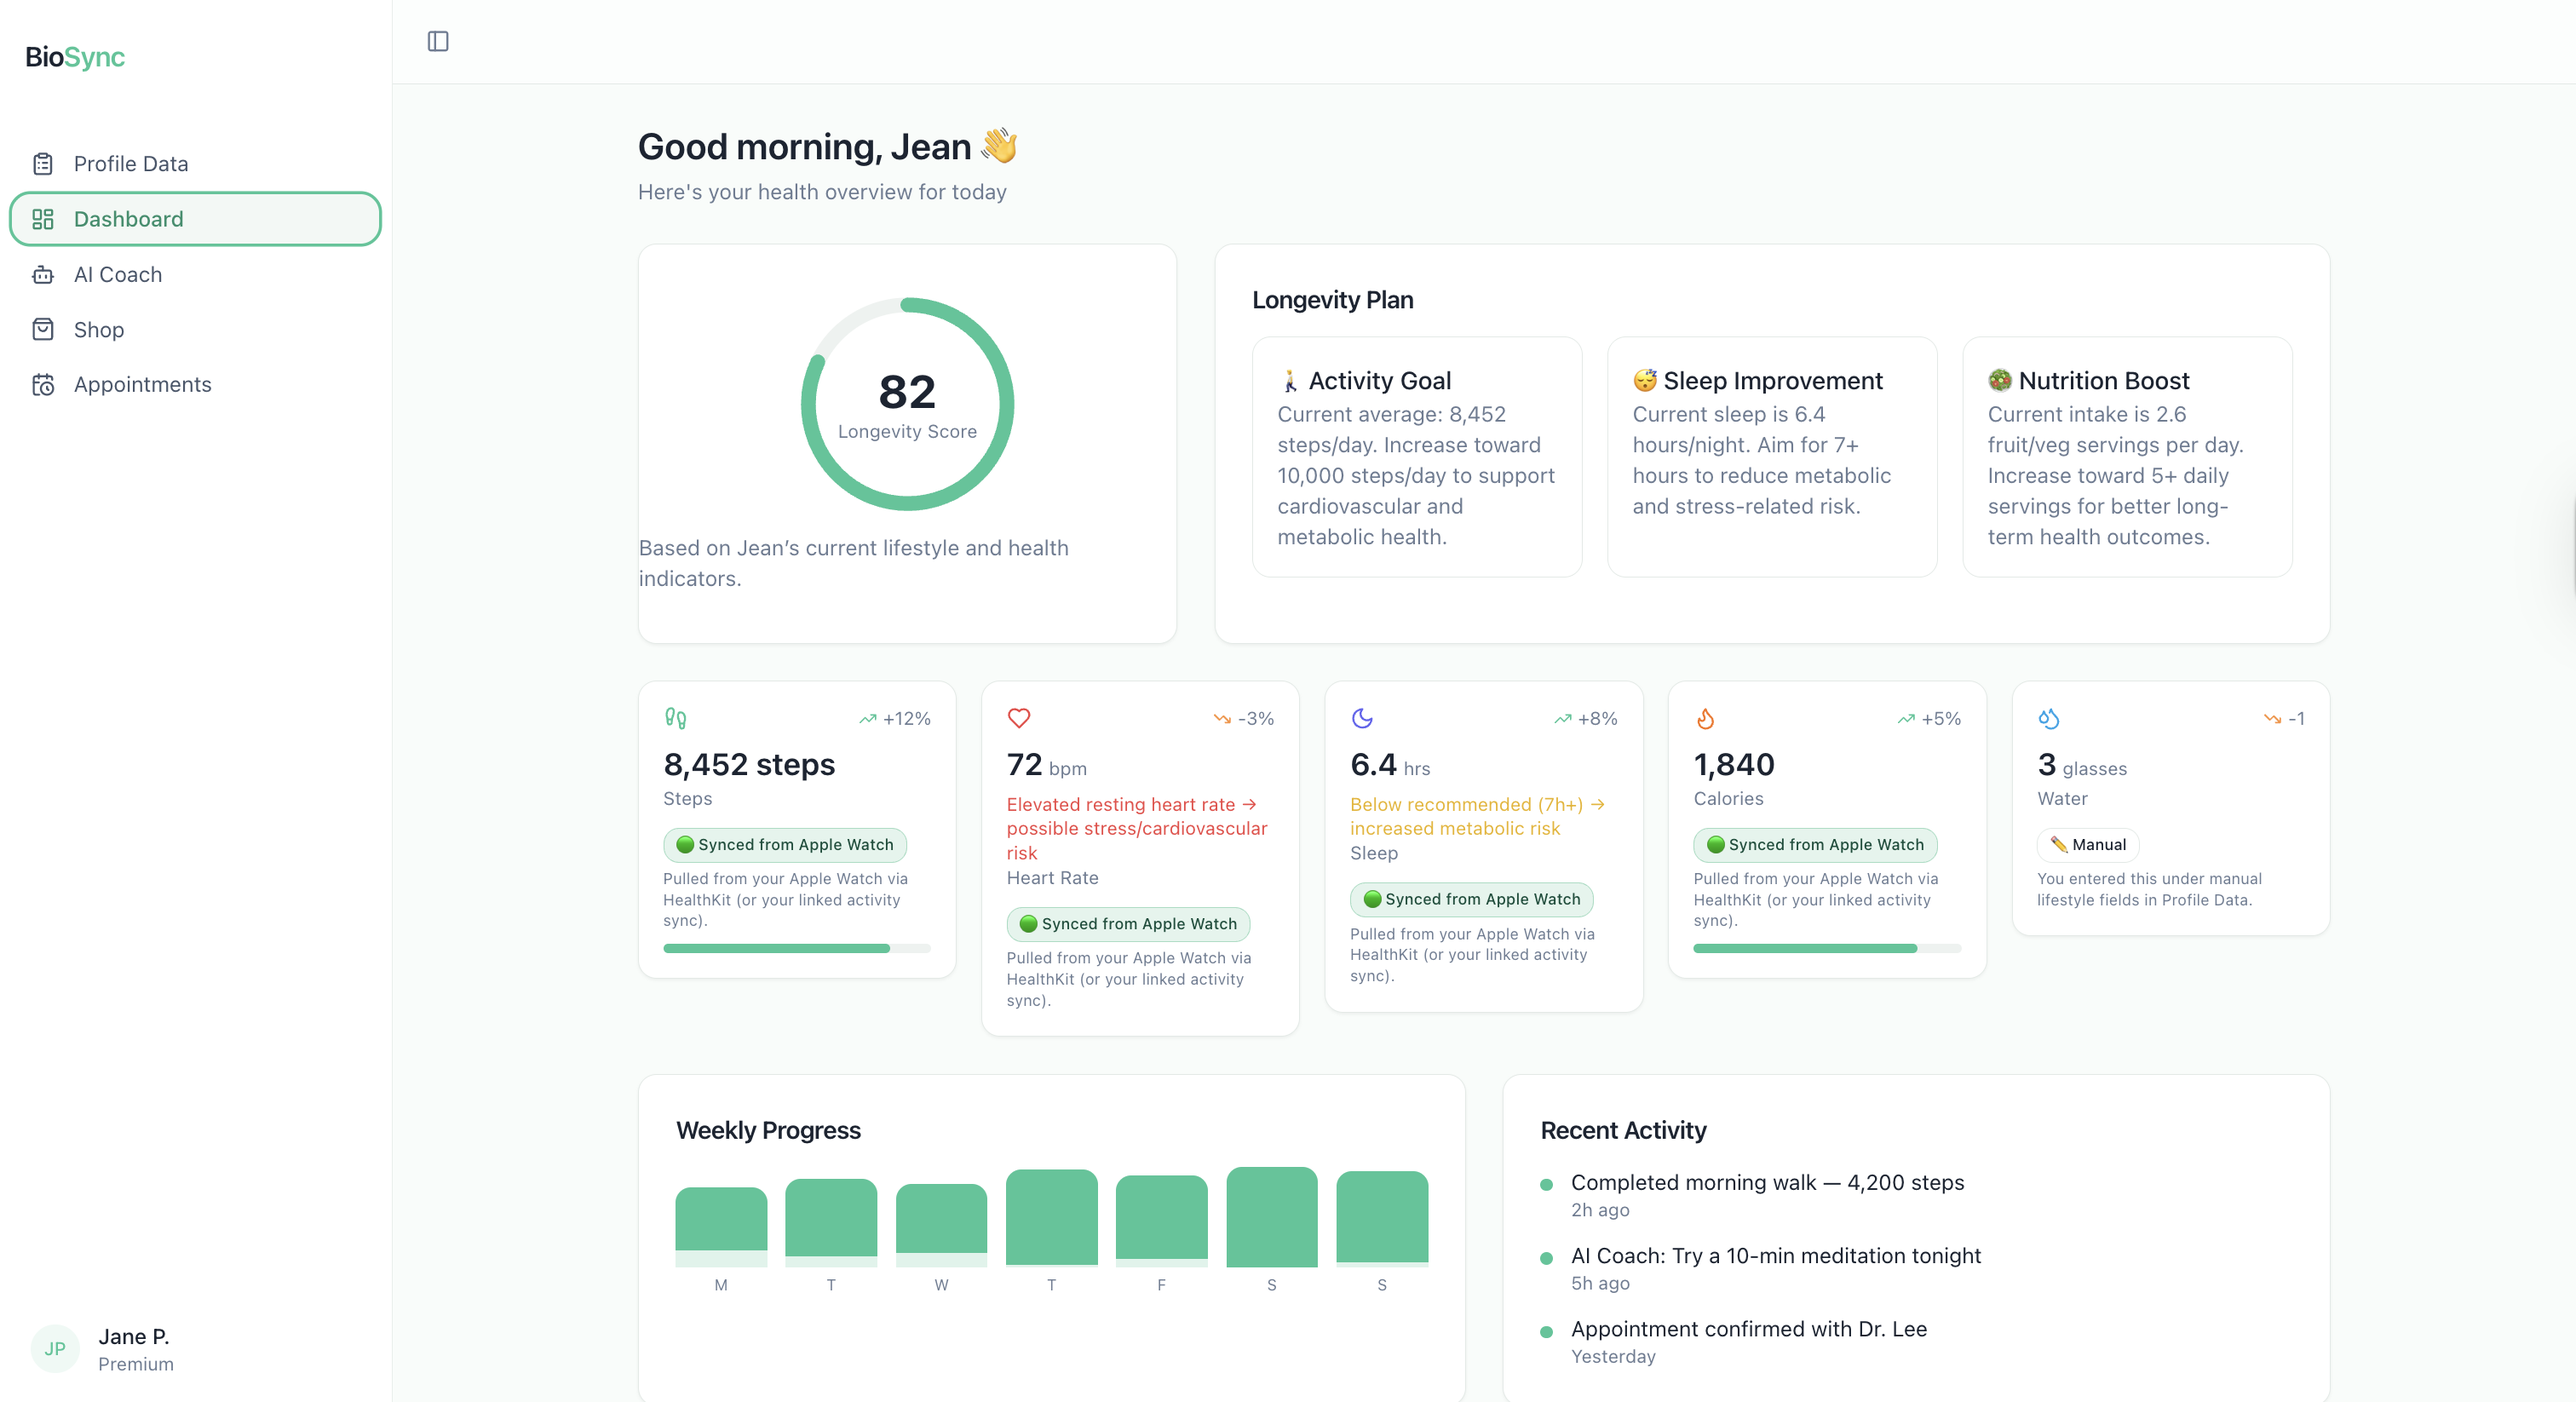
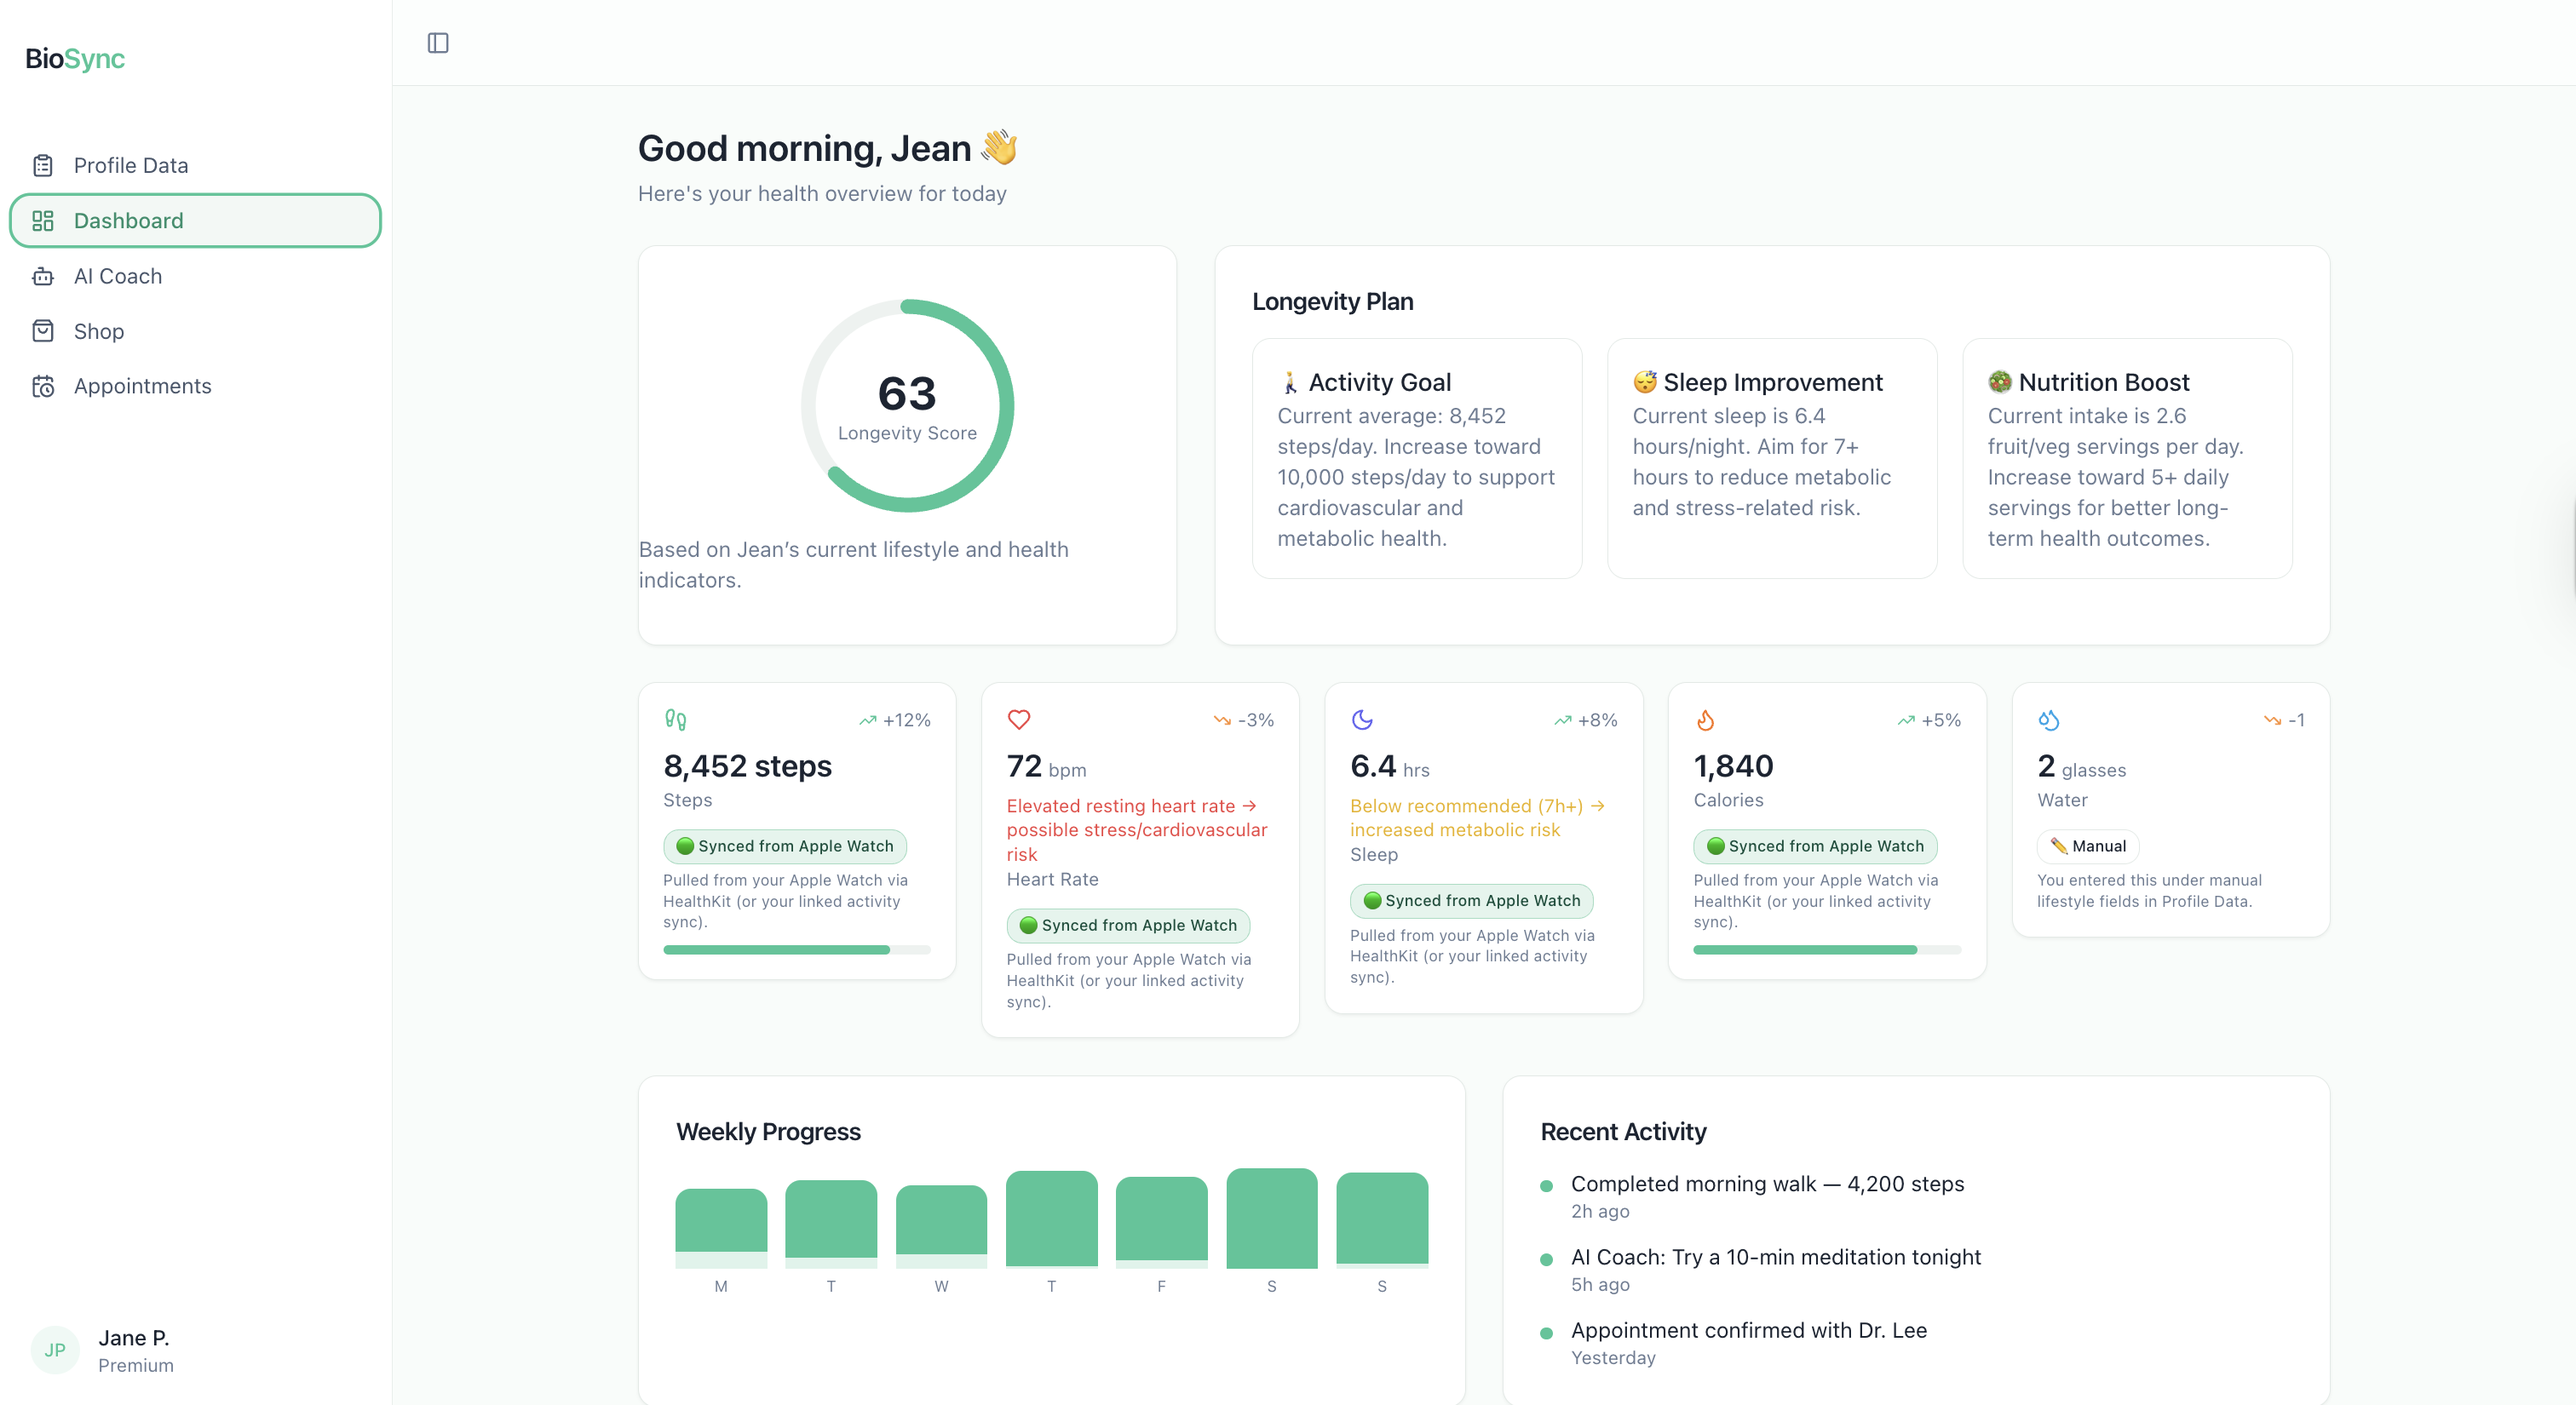
update README and add docs

diff --git a/src/pages/Index.tsx b/src/pages/Index.tsx
@@ -181,7 +181,7 @@ export default function Dashboard() {
     };
   }, []);
 
-  const healthScore = profile?.profile?.health_score || 82;
+  const healthScore = profile?.profile?.health_score || 63;
 
   const metricsWithProfile = metrics.map((m) => {
     let next = { ...m };
